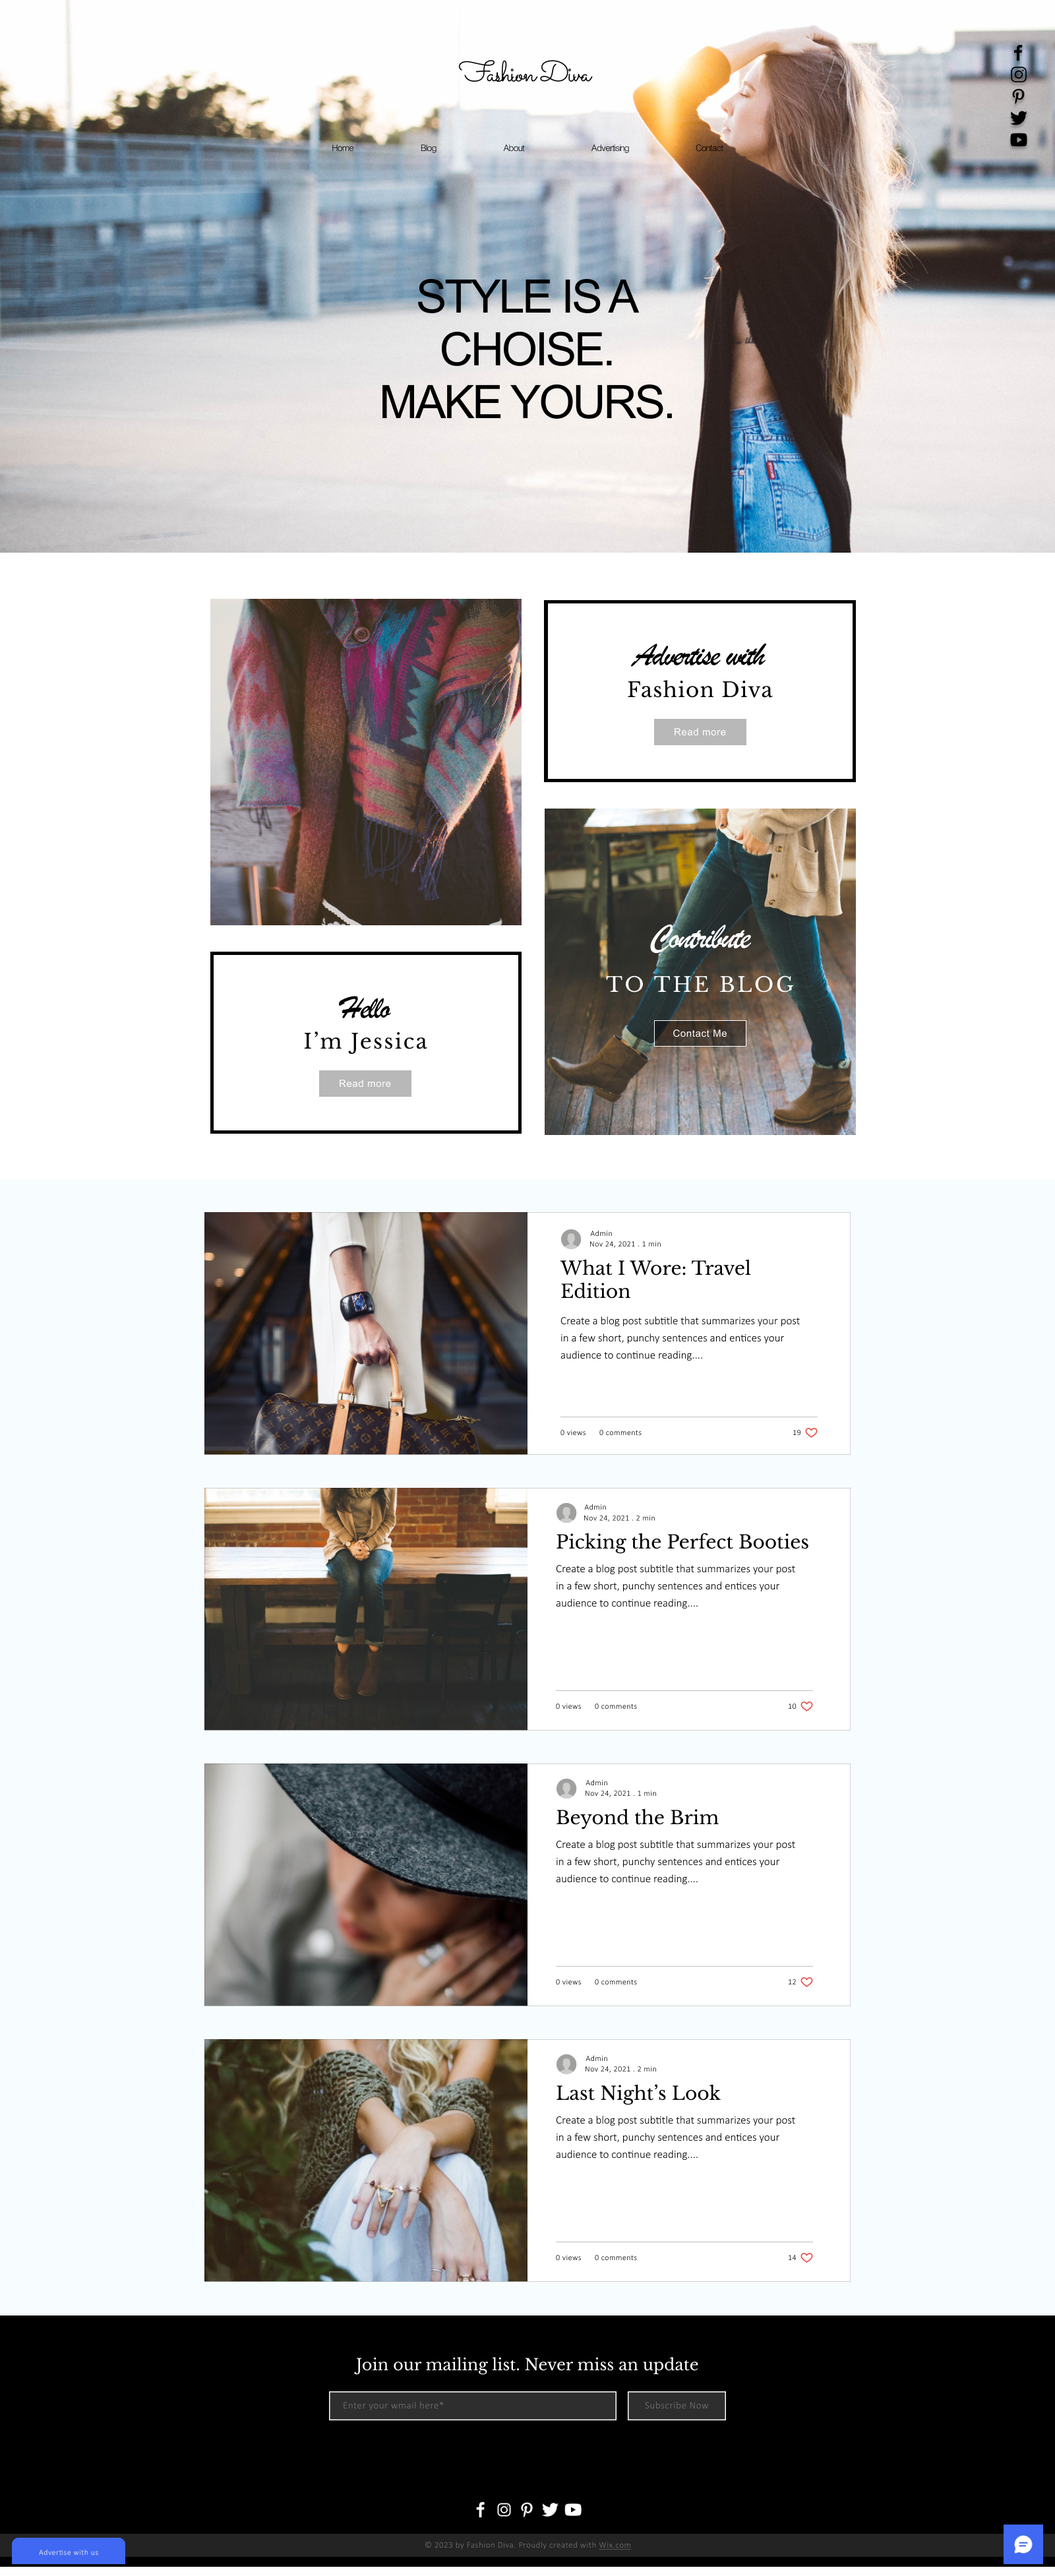
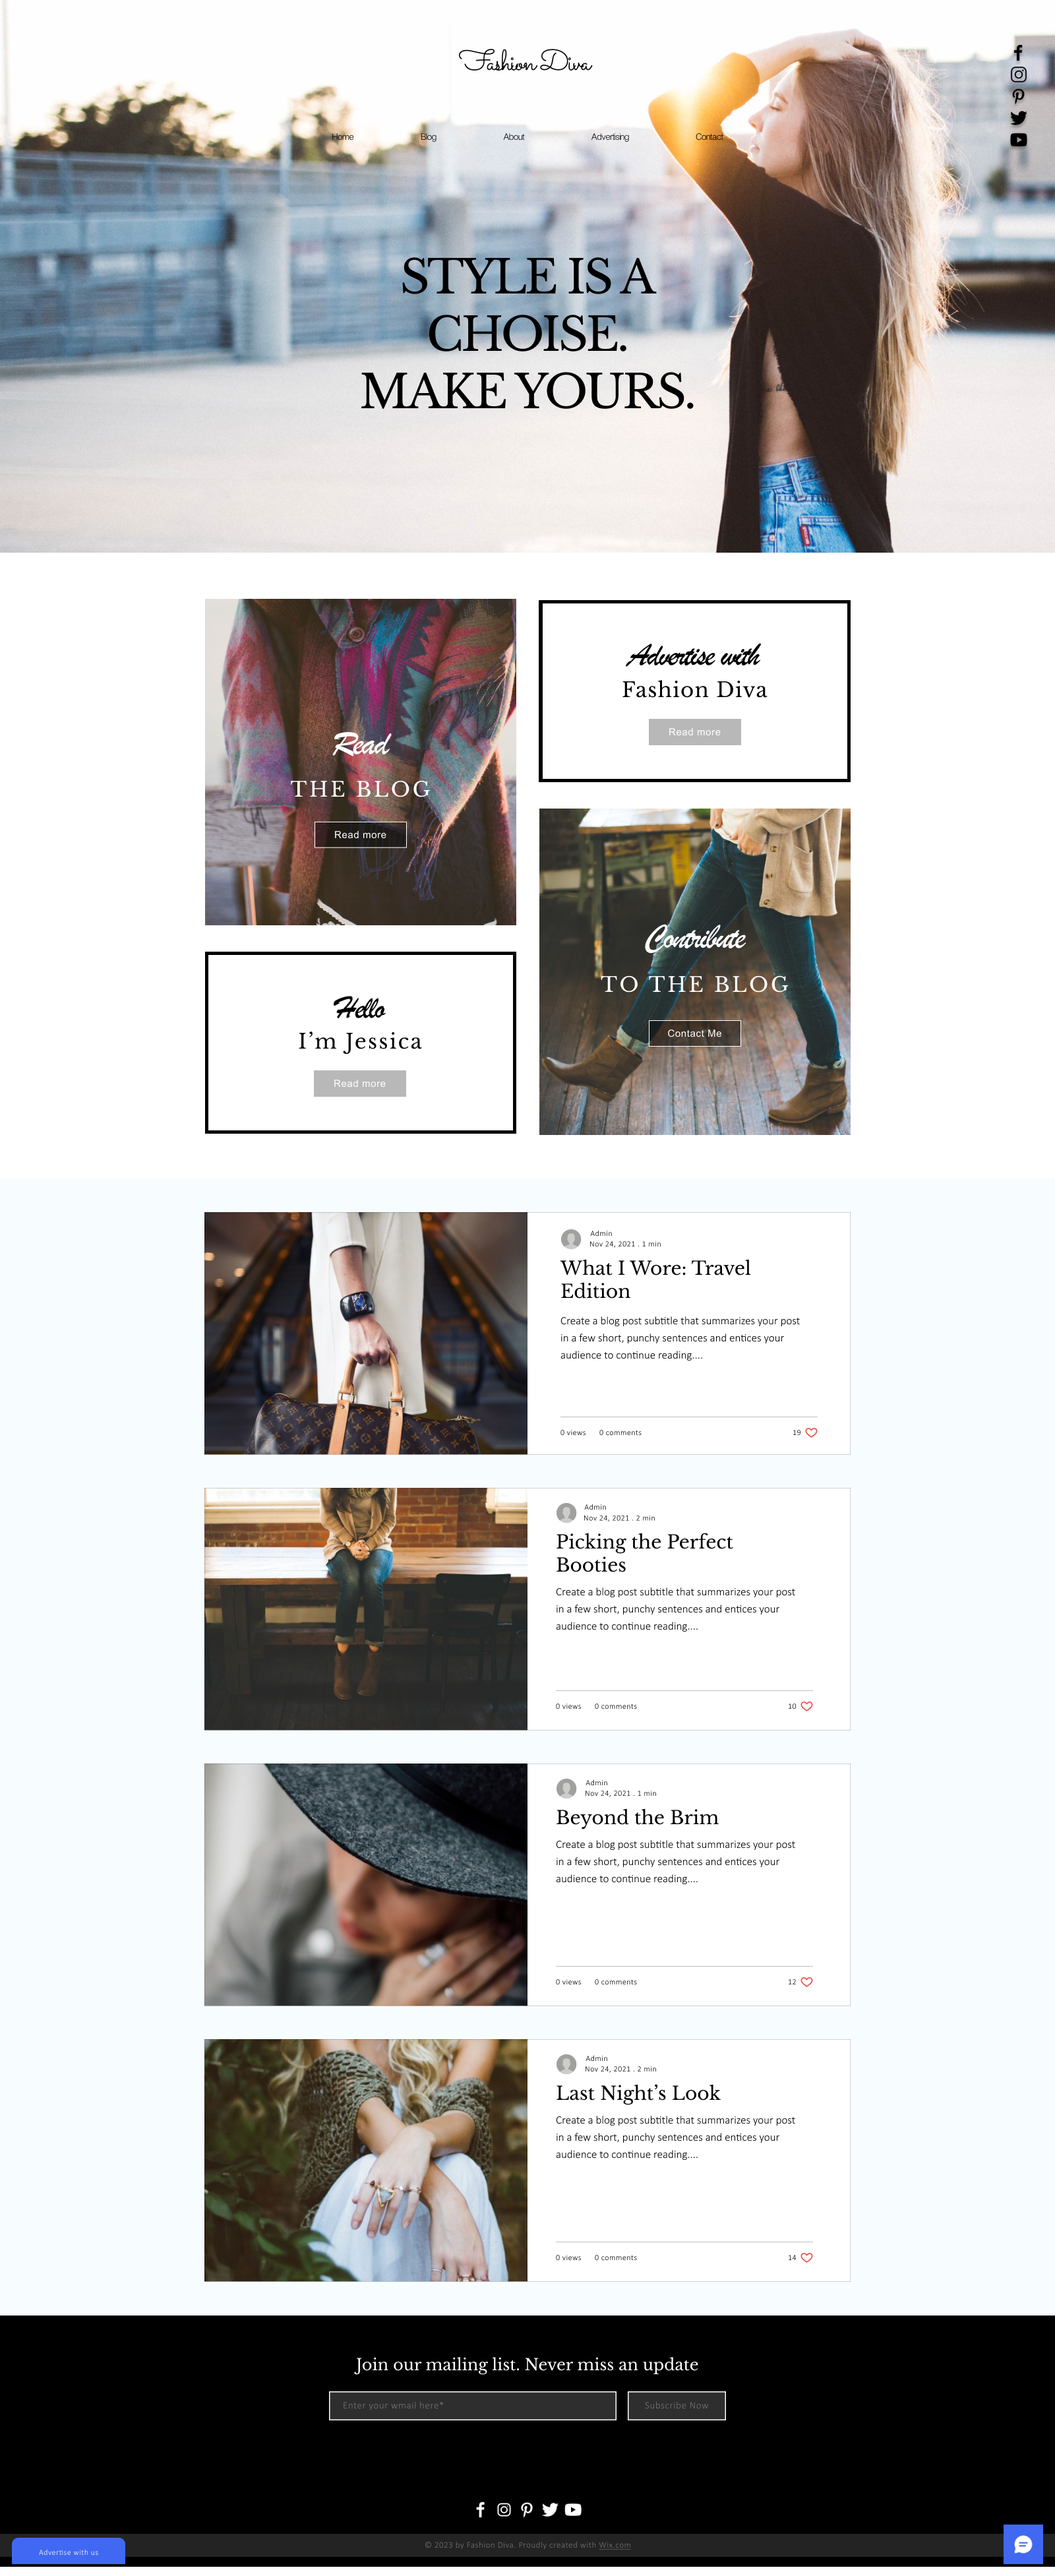
correction

diff --git a/index.html b/index.html
@@ -12,13 +12,16 @@
         <header class="header header--margin">
             <a href="index.html"><img src="img/logo.png" alt="logo" class="header__logo"></a>
             <ul class="header__menu">
-                <li><a href="index.html">Home</a></li>
-                <li><a href="blog.html">Blog</a></li>
-                <li><a href="about.html">About</a></li>                    
-                <li><a href="advertising.html">Advertising</a></li>
-                <li><a href="contact.html">Contact</a></li>
+                <li><a href="index.html" class="burger-menu">Home</a></li>
+                <li><a href="blog.html" class="burger-menu">Blog</a></li>
+                <li><a href="about.html" class="burger-menu">About</a></li>                    
+                <li><a href="advertising.html" class="burger-menu">Advertising</a></li>
+                <li><a href="contact.html" class="burger-menu">Contact</a></li>
             </ul>
-            <img src="img/burger.png" alt="burger" class="burger">
+            <div class="burger-button">
+                <img src="img/burger.png" alt="burger" class="burger">
+            </div>
+            <!-- <div class="burger-menu-overlay"></div> -->
         </header>
         <h1>style is a choise. make yours.</h1>
     </div>
@@ -28,22 +31,34 @@
             <div class="section__read-the-blog">
                 <span class="section__title-black">Read</span>
                 <span class="section__uppercase">the blog</span>
-                <a href="blog.html"><button class="section__btn-grey">Read More</button></a> 
+                <form action="https://mikhiiia.github.io/fashion-diva/blog.html">
+                    <button class="section__btn-grey">Read More</button>
+                </form>
+                <!-- <a href="blog.html"></a>  -->
             </div>
             <div class="section__hello">
                 <span class="section__title">Hello</span>
                 <span class="section__name">I'm Jessica</span>
-                <a href="about.html"><button class="section__btn-grey">Read More</button></a>
+                <form action="https://mikhiiia.github.io/fashion-diva/about.html">
+                    <button class="section__btn-grey">Read More</button>
+                </form>
+                <!-- <a href="about.html"></a> -->
             </div>
             <div class="section__advertise-with">
                 <span class="section__title">Advertise with</span>
                 <span class="section__name">Fashion Diva</span>
-                <a href="advertising.html"><button class="section__btn-grey">Read More</button></a>
+                <form action="https://mikhiiia.github.io/fashion-diva/advertising.html">
+                    <button class="section__btn-grey">Read More</button>
+                </form>
+                <!-- <a href="advertising.html"></a> -->
             </div>
             <div class="section__contribute-to-the-blog">
                 <span class="section__title-black">Contribute</span>
                 <span class="section__uppercase">to the blog</span>
-                <a href="contact.html"><button class="section__btn-grey">Contact Me</button></a>
+                <form action="https://mikhiiia.github.io/fashion-diva/contact.html">
+                    <button class="section__btn-grey">Contact Me</button>
+                </form>
+                <!-- <a href="contact.html"></a> -->
             </div>
         </section>
     </div>
@@ -68,7 +83,7 @@
                     <div class="content__likes">
                         <div class="likes__com-views">
                             <span>0 views</span>
-                            <a href="#"><span>0 comments</span></a>
+                            <span>0 comments</span>
                         </div>
                         <div class="like">
                             <span>19</span>
@@ -95,7 +110,7 @@
                     <div class="content__likes">
                         <div class="likes__com-views">
                             <span>0 views</span>
-                            <a href="#"><span>0 comments</span></a>
+                            <span>0 comments</span>
                         </div>
                         <div class="like">
                             <span>10</span>
@@ -122,7 +137,7 @@
                     <div class="content__likes">
                         <div class="likes__com-views">
                             <span>0 views</span>
-                            <a href="#"><span>0 comments</span></a>
+                            <span>0 comments</span>
                         </div>
                         <div class="like">
                             <span>12</span>
@@ -149,7 +164,7 @@
                     <div class="content__likes">
                         <div class="likes__com-views">
                             <span>0 views</span>
-                            <a href="#"><span>0 comments</span></a>
+                            <span>0 comments</span>
                         </div>
                         <div class="like">
                             <span>14</span>
@@ -194,5 +209,7 @@
     </button>
 
     <a href="#"><img src="img/bluefixed.png" alt="" class="chat-massage-button"></a>
+
+    <!-- <script src="js/burger.js"></script> -->
 </body>
 </html>

diff --git a/css/index.css b/css/index.css
@@ -11,11 +11,11 @@ html{
 @font-face {
     font-family: 'Helvetica-light-normal'; /* Имя шрифта */
     src: url("../fonds/helvetica_light-normal.ttf"); /* Путь к файлу со шрифтом */
-   }
+}
 @font-face {
     font-family: 'Helveticaultralight';
     src: url("../fonds/helveticaneuecyr-ultralight3.ttf");
-   }
+}
 @font-face{
     font-family: 'Helvetica_w01_light';
     src: url("../fonds/helvetica_w01_light.ttf");
@@ -23,15 +23,15 @@ html{
 @font-face {
     font-family: 'Libre-Baskerville';
     src: url("../fonds/libre-baskerville.ttf");
-   }
+}
 @font-face {
     font-family: 'Sacramento';
     src: url("../fonds/sacramento.ttf");
-   }
+}
 @font-face {
     font-family: 'Belinda';
     src: url("../fonds/Belinda-W00-Regular.ttf");
-   }
+}
 
 .bg{
     background-image: url("../img/bg.png");
@@ -77,10 +77,21 @@ a{
 a:hover, a:active{
     color: rgb(170, 170, 170);
 }
+/* .burger-button{
+    background-color: #000000;
+    -webkit-transition: 0.4s;
+    -moz-transition: 0.4s;
+    -o-transition: 0.4s;
+    transition: 0.4s;
+} */
 .burger{
     display: none;
 }
- 
+/* .burger-menu_active .burger-menu-overlay {
+    display: block;
+    background-color: rgba(0, 0, 0, 0.5);
+} */
+
 .content__text p:hover, .content__text h2:hover{
     color: rgb(170, 170, 170);
 }
@@ -256,7 +267,6 @@ h2{
     padding-top: 14px;
     display: flex;
     justify-content: space-between;
-    flex-wrap: wrap;
 }
 .content__likes span{
     font-family: 'Helvetica';
@@ -395,7 +405,7 @@ footer a{
     align-items: center;
 }
 .fixed-button:active{
-    /* transition: 1.5s; ?? */
+    /* ? transition: 1.5s; */
     background: linear-gradient(180deg, #4168F2 51.04%, #46F046 100%);
 }
 .fixed-button span{
@@ -454,8 +464,8 @@ footer a{
 @media (max-width: 925px) {
     h1{
         font-size: 75px;
-        padding-top: 20%;
-        width: 40%;
+        padding-top: 15%;
+        width: 50%;
     }
 }
 @media (max-width: 880px) {
@@ -501,7 +511,7 @@ footer a{
     header{
         display: flex;
         justify-content: space-between;
-        padding: 0 30px;
+        padding: 0 20px;
     }
     .header__menu{
         display: none;
@@ -513,7 +523,7 @@ footer a{
         cursor: pointer;
     }
     h1{
-        width: 50%;
+        width: 60%;
         padding-top: 25%;
     }
     .footer__inputs{
@@ -547,7 +557,7 @@ footer a{
         width: 95%;
     }
     h1{
-        width: 78%;
+        width: 86%;
         font-size: 70px;
     }
     .section{
@@ -557,7 +567,12 @@ footer a{
 @media (max-width: 420px) {
     h1{
         font-size: 60px;
-        padding-top: 35%;
+        padding-top: 40%;
+    }
+}
+@media (max-width: 320px) {
+    h1{
+        font-size: 50px;
     }
 }
 @media (max-height: 500px) {
@@ -571,3 +586,63 @@ footer a{
         padding-top: 17%;
     }
 }
+
+
+
+
+
+
+  
+  /* .header__menu {
+    padding-top: 120px;
+    position: fixed;
+    top: 0;
+    z-index: 20;
+    display: flex;
+    flex-flow: column;
+    height: 100%;
+    background-color: white;
+    overflow-y: auto;
+    right: -100%;
+    -webkit-transition: 0.8s;
+    -moz-transition: 0.8s;
+    -o-transition: 0.8s;
+    transition: 0.8s;
+  }
+  .burger-menu_active .header__menu {
+    right: 0;
+    -webkit-transition: 0.4s;
+    -moz-transition: 0.4s;
+    -o-transition: 0.4s;
+    transition: 0.4s;
+  }
+  .burger-menu {
+    padding: 18px 35px;
+    font-family: 'Roboto', sans-serif;
+    font-size: 18px;
+    text-decoration: none;
+    text-transform: uppercase;
+    letter-spacing: 5px;
+    font-weight: 400;
+    color: #BB1E99;
+    border-bottom: 1px solid #fff;
+  }
+  .burger-menu:first-child {
+    border-top: 1px solid #fff;
+  }
+  .burger-menu:hover {
+    filter: brightness(0.9);
+  }
+  .burger-menu_overlay {
+    display: none;
+    position: fixed;
+    top: 0;
+    left: 0;
+    width: 100vw;
+    height: 100vh;
+    z-index: 10;
+  }
+  .burger-menu_active .burger-menu_overlay {
+    display: block;
+    background-color: rgba(0, 0, 0, 0.5);
+  } */

diff --git a/js/burger.js b/js/burger.js
@@ -1,0 +1,26 @@
+// function burgerMenu(selector) {
+//     let menu = $(selector);
+//     let button = menu.find('.burger-button', '.burger');
+//     let links = menu.find('.burger-menu');
+//     let overlay = menu.find('.burger-menu_overlay');
+    
+//     button.on('click', (e) => {
+//       e.preventDefault();
+//       toggleMenu();
+//     });
+    
+//     menus.on('click', () => toggleMenu());
+//     overlay.on('click', () => toggleMenu());
+    
+//     function toggleMenu(){
+//       menu.toggleClass('burger_active');
+      
+//       if (menu.hasClass('burger_active')) {
+//         $('body').css('overlow', 'hidden');
+//       } else {
+//         $('body').css('overlow', 'visible');
+//       }
+//     }
+//   }
+  
+//   burgerMenu('.burger-menu');

diff --git a/about.html b/about.html
@@ -9,7 +9,7 @@
 </head>
 <body>
     <div class="bg">
-       <header class="header header--m">
+        <header class="header header--m">
             <a href="index.html"><img src="img/logo.png" alt="logo" class="header__logo"></a>
             <ul class="header__menu">
                 <li><a href="index.html">Home</a></li>
